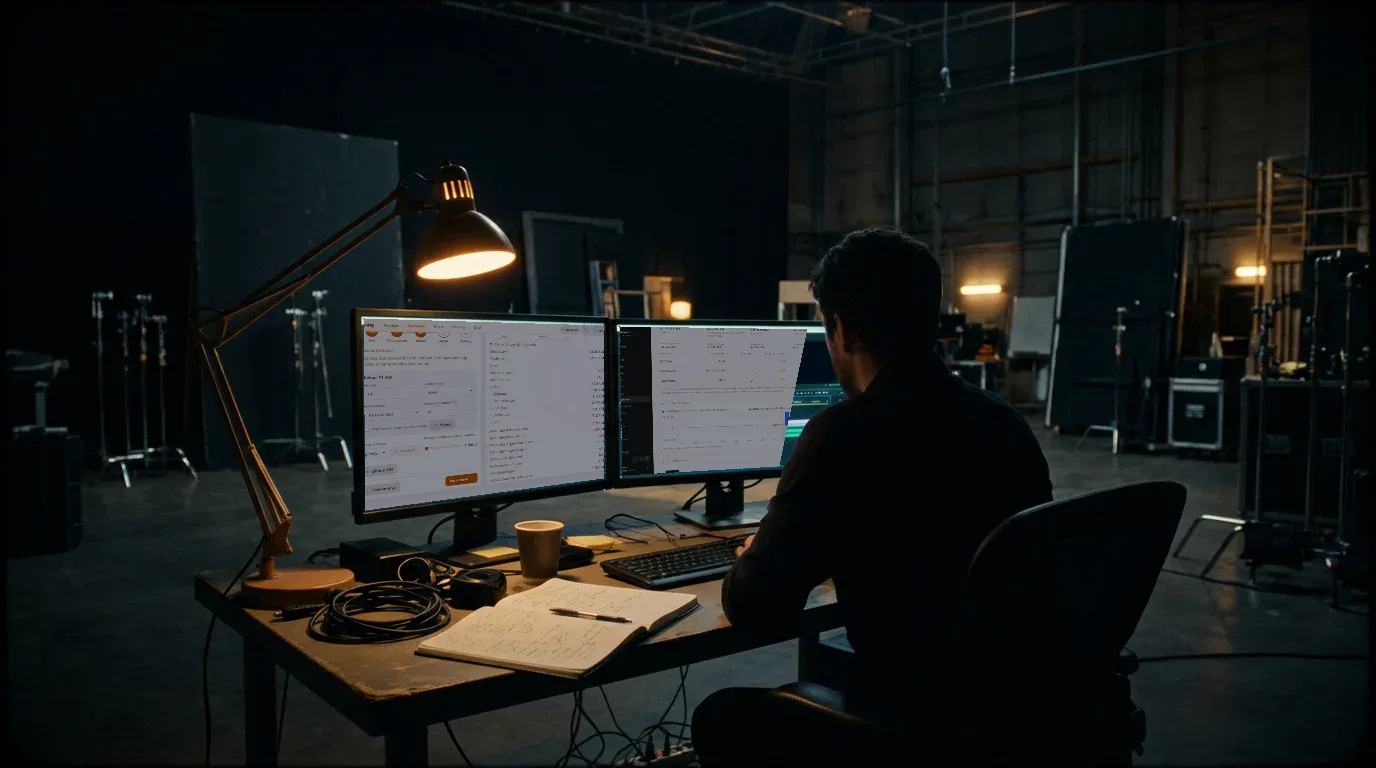
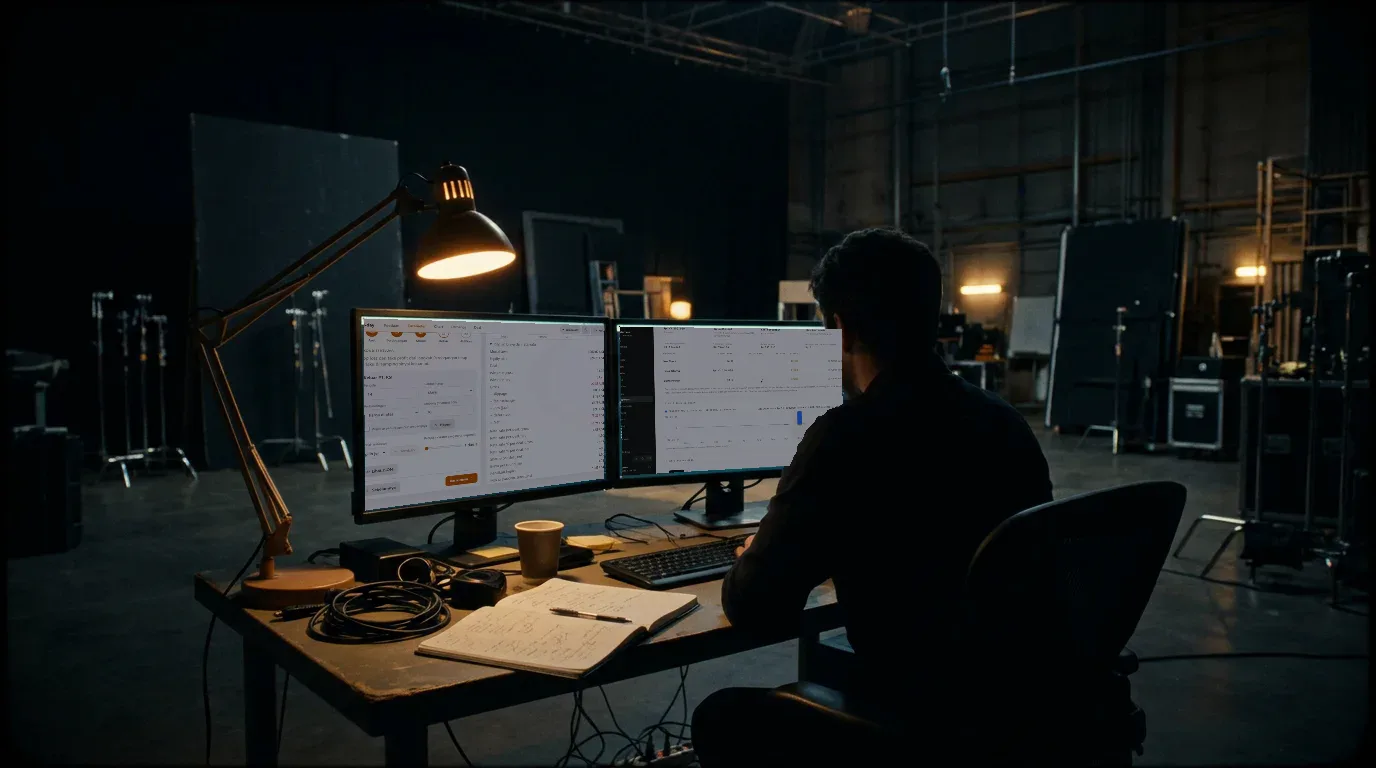
fix: layar kanan bab 6 menerus sampai siluet kepala editor
Garis potong lurus menyisakan pita timeline lama di antara layar dan
kepala. Kini benda yang lebih dekat dari monitor menutup layar menurut
peta kedalaman (batasDalam), dan versi Ringan memakai masker yang sama.

Changed region(s): [[0.5625, 0.4062, 0.625, 0.625], [0.4688, 0.4688, 0.5, 0.5]]

diff --git a/components/cerita/dunia.js b/components/cerita/dunia.js
@@ -54,9 +54,10 @@ const LAYAR = {
     // Kedua layar bertema terang, jadi tangkapannya sudah diredupkan (PROVENANCE) supaya senada
     // dengan monitor gelap di styleframe. Sudut ditarik masuk 2 px dari bingkai.
     { src: "layar-06a", jenis: "bersih", sudut: [[363, 318], [603, 325], [603, 478], [365, 510]] },
-    // Garis potong dijauhkan dari kepala editor: paralaks mendorong kepala ke depan, dan segitiga
-    // yang melar di tepinya dulu ikut membawa piksel layar keluar bingkai.
-    { src: "layar-06b", jenis: "bersih", sudut: [[619, 326], [826, 329], [828, 463], [622, 475]], potong: [[810, 313], [778, 470]] },
+    // Layar kanan menerus sampai tepi monitor; kepala editor yang menutupinya diambil dari peta
+    // kedalaman (batasDalam), bukan garis lurus, jadi tidak tersisa pita timeline lama di sela
+    // layar dan kepala.
+    { src: "layar-06b", jenis: "bersih", batasDalam: 0.55, sudut: [[619, 326], [841, 329], [843, 462], [622, 475]] },
   ],
   // Monitor grading bab 7 menampilkan layar yang sama dalam dua versi: rancangan rapi (kiri garis,
   // berwarna) dan versi buruk ala AI slop (kanan garis, setengah pudar). Garis sibak menggeser
@@ -128,6 +129,8 @@ const fragPanel = /* glsl */ `
   uniform vec4 potong0;
   uniform vec4 potong1;
   uniform float jenis;
+  uniform sampler2D dalam;
+  uniform float batasDalam;
   varying vec2 vUv;
 
   // 0 di luar layar, 1 di dalamnya, dengan tepi halus satu dua piksel.
@@ -141,6 +144,8 @@ const fragPanel = /* glsl */ `
     vec2 jarak = min(suv, 1.0 - suv);
     float m = smoothstep(0.0, 0.006, min(jarak.x, jarak.y));
     m *= (1.0 - tertutup(px, t0)) * (1.0 - tertutup(px, t1));
+    // Benda yang lebih dekat dari monitor (kepala di depan layar) menutup layar menurut siluetnya.
+    if (batasDalam > 0.0) m *= 1.0 - smoothstep(batasDalam - 0.03, batasDalam + 0.03, texture2D(dalam, vUv).r);
     // Garis potong dari (x0, y0) ke (x1, y1): sisi kanannya milik benda di depan layar.
     // Tanpa garis potong, garisnya diletakkan jauh di kanan gambar (nilai awal uniform). Jangan
     // pakai Vector4() kosong: w-nya 1, jadi garisnya jatuh di tepi kiri dan seluruh layar hilang.
@@ -222,6 +227,7 @@ function bahanPanel() {
       potong0: { value: new THREE.Vector4(1e4, 0, 1e4, 1e4) },
       potong1: { value: new THREE.Vector4(1e4, 0, 1e4, 1e4) },
       jenis: { value: 0 },
+      batasDalam: { value: 0 },
       dalam: { value: null },
       tebal: { value: 0 },
     },
@@ -415,6 +421,7 @@ export function buatDunia(wadah, { locale, kotak: proyekKotak = [], hp = false, 
       (l.tutup ?? []).forEach((t, k) => u[`tutup${j}`].value[k].set(...t));
       if (l.potong) u[`potong${j}`].value.set(...l.potong[0], ...l.potong[1]);
       u.jenis.value = { proyektor: 1, kertas: 2, bersih: 3 }[l.jenis] ?? 0;
+      if (l.batasDalam) u.batasDalam.value = l.batasDalam;
       pemuat.load(`/assets/cerita/${l.src}.webp`, (t) => {
         t.colorSpace = THREE.SRGBColorSpace;
         u[`layar${j}`].value = t;
